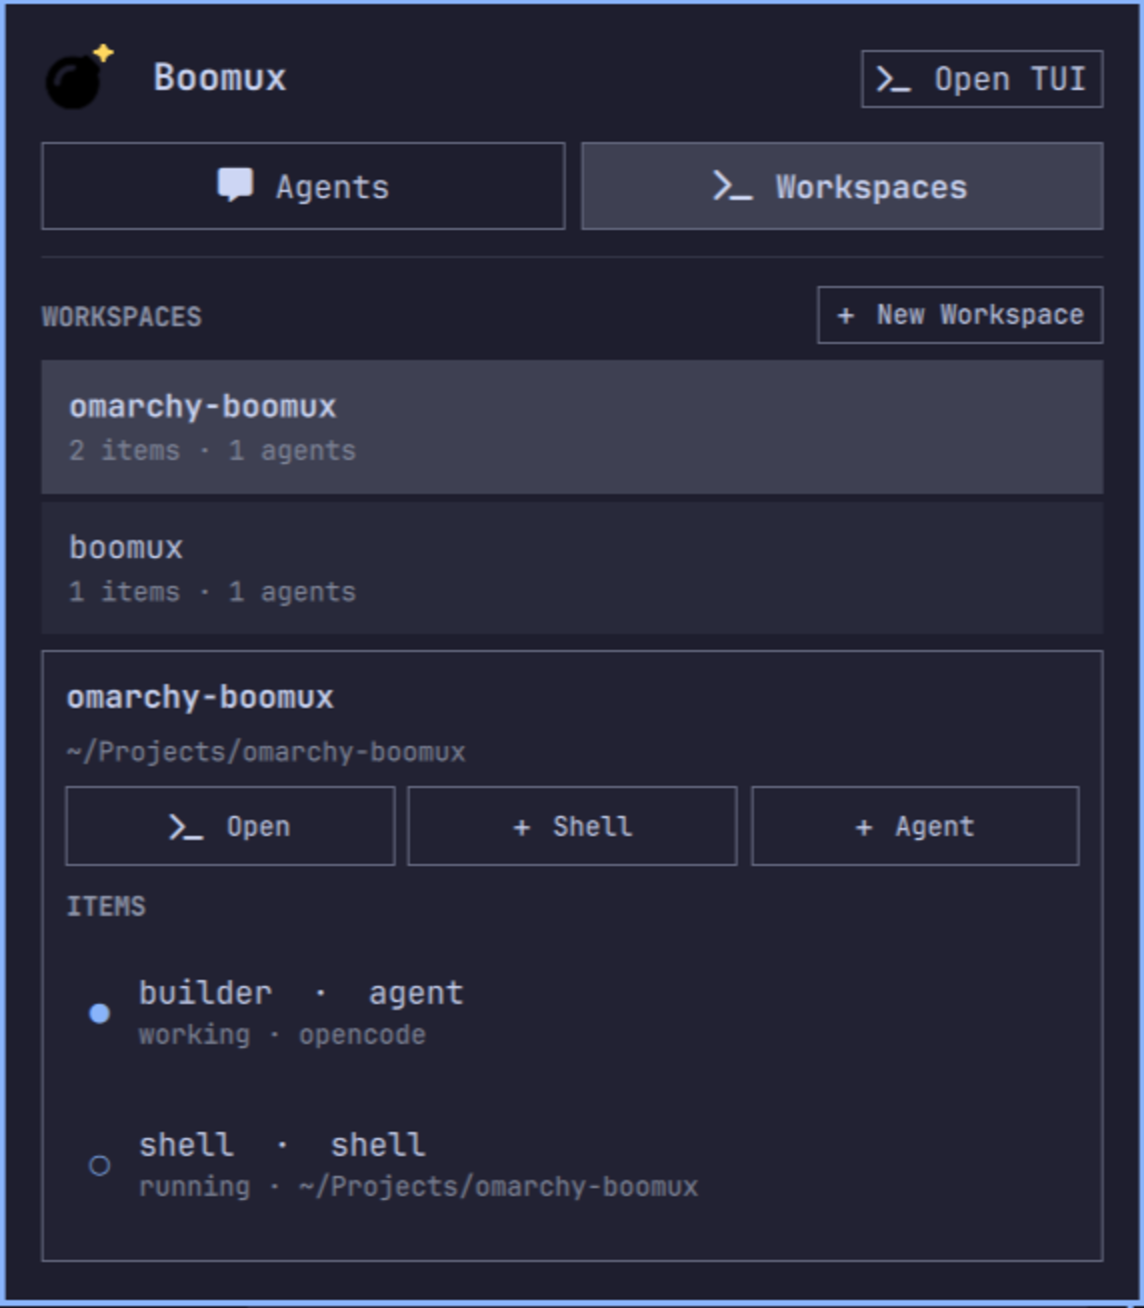
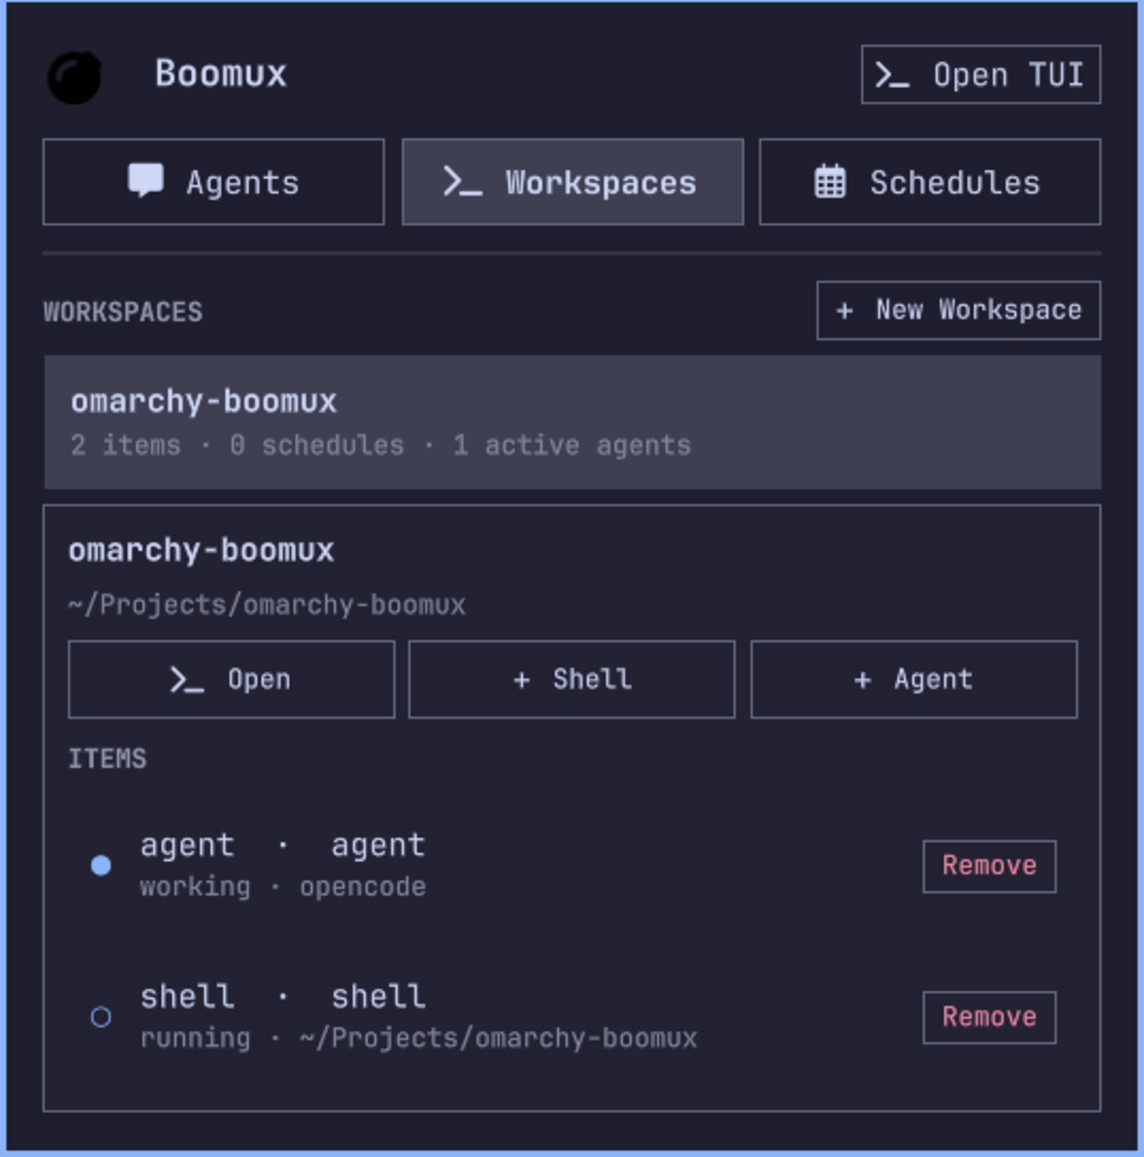
feat: remove workspace items

diff --git a/Panel.qml b/Panel.qml
@@ -44,6 +44,7 @@ Panel {
   property var activeAcknowledgement: null
   property var automaticAttentionRevisions: ({})
   property var pendingOpenAgent: null
+  property var itemToRemove: null
   property string inspectRequestedId: ""
   property string inspectActiveId: ""
   property string error: ""
@@ -134,6 +135,7 @@ Panel {
     workspaceDetail = null
     selectedWorkspaceId = ""
     selectedScheduleId = ""
+    itemToRemove = null
     daemonProtocolVersion = 0
     schedulerState = "offline"
     schedulerActiveExecutions = 0
@@ -543,6 +545,37 @@ Panel {
     openShell(item.shell, item.agent)
   }
 
+  function requestRemoveItem(item) {
+    if (!item || actionProcess.running || openProcess.running || executionOpenProcess.running) return
+    removeItemDialog.selectedIndex = 0
+    itemToRemove = item
+  }
+
+  function cancelRemoveItem() {
+    itemToRemove = null
+  }
+
+  function removeItemMessage(item) {
+    if (!item) return ""
+    if (item.kind === "launcher")
+      return "Remove launcher " + String(item.name)
+        + "? This deletes its workspace definition. Applications it already launched keep running."
+    return "Remove " + String(item.kind) + " " + String(item.name)
+      + "? This terminates it if running and deletes its shell definition and retained terminal state. Durable Agent history may remain."
+  }
+
+  function confirmRemoveItem() {
+    var item = itemToRemove
+    itemToRemove = null
+    if (!item || !workspaceDetail || actionProcess.running) return
+    pendingAction = item.kind === "launcher" ? "remove-launcher" : "remove-shell"
+    actionMessage = "Removing " + String(item.name) + "..."
+    actionProcess.command = item.kind === "launcher"
+      ? ["boomux", "launcher", "remove", String(item.id), "--workspace", String(workspaceDetail.id)]
+      : ["boomux", "shell", "close", String(item.shell.id), "--workspace", String(workspaceDetail.id)]
+    actionProcess.running = true
+  }
+
   function openDashboard() {
     if (!bar) return
     bar.run("omarchy-launch-tui --app-id=org.omarchy.boomux boomux")
@@ -761,6 +794,7 @@ Panel {
     refresh()
     Qt.callLater(function() { keyCatcher.forceActiveFocus() })
   } else {
+    itemToRemove = null
     cancelForm()
   }
 
@@ -893,6 +927,8 @@ Panel {
       else if (action === "create-shell") root.actionMessage = "Shell added"
       else if (action === "create-agent") root.actionMessage = "Starting " + root.agentHost + "..."
       else if (action === "invoke-launcher") root.actionMessage = "Launcher started"
+      else if (action === "remove-launcher") root.actionMessage = "Launcher removed"
+      else if (action === "remove-shell") root.actionMessage = "Workspace item removed"
       else if (action === "run-schedule") root.actionMessage = "Schedule execution started"
       else if (action === "pause-schedule") root.actionMessage = "Schedule paused"
       else if (action === "resume-schedule") root.actionMessage = "Schedule resumed"
@@ -1014,14 +1050,27 @@ Panel {
       anchors.fill: parent
       blocked: root.editing
       onMoveRequested: function(dx, dy) {
-        if (dy !== 0) root.moveSelection(dy)
+        if (root.itemToRemove && (dx !== 0 || dy !== 0))
+          removeItemDialog.selectedIndex = removeItemDialog.selectedIndex === 0 ? 1 : 0
+        else if (dy !== 0) root.moveSelection(dy)
       }
-      onActivateRequested: root.activateSelected()
-      onCloseRequested: root.close()
+      onActivateRequested: {
+        if (root.itemToRemove) {
+          if (removeItemDialog.selectedIndex === 0) root.cancelRemoveItem()
+          else root.confirmRemoveItem()
+        } else root.activateSelected()
+      }
+      onCloseRequested: {
+        if (root.itemToRemove) root.cancelRemoveItem()
+        else root.close()
+      }
       onTabRequested: function(direction) {
-        root.cycleTab(direction)
+        if (root.itemToRemove)
+          removeItemDialog.selectedIndex = removeItemDialog.selectedIndex === 0 ? 1 : 0
+        else root.cycleTab(direction)
       }
       onTextKey: function(text) {
+        if (root.itemToRemove) return
         if (text === "r" || text === "R") root.refresh()
         else if (text === "1") root.selectTab("agents")
         else if (text === "2") root.selectTab("workspaces")
@@ -1468,8 +1517,8 @@ Panel {
                     Column {
                       anchors.left: kindGlyph.right
                       anchors.leftMargin: Style.space(10)
-                      anchors.right: parent.right
-                      anchors.rightMargin: Style.space(9)
+                      anchors.right: removeItemButton.left
+                      anchors.rightMargin: Style.space(8)
                       anchors.verticalCenter: parent.verticalCenter
                       spacing: Style.space(1)
                       Text {
@@ -1496,6 +1545,24 @@ Panel {
                       anchors.fill: parent
                       hoverEnabled: true
                       onClicked: root.openWorkspaceItem(modelData)
+                    }
+                    Button {
+                      id: removeItemButton
+                      z: 1
+                      anchors.right: parent.right
+                      anchors.rightMargin: Style.space(8)
+                      anchors.verticalCenter: parent.verticalCenter
+                      text: "Remove"
+                      tooltipText: modelData.kind === "launcher"
+                        ? "Remove launcher definition"
+                        : "Close and remove backing shell"
+                      bordered: true
+                      enabled: !actionProcess.running && !openProcess.running && !executionOpenProcess.running
+                      foreground: root.urgent
+                      fontSize: Style.font.caption
+                      horizontalPadding: Style.space(6)
+                      verticalPadding: Style.space(2)
+                      onClicked: root.requestRemoveItem(modelData)
                     }
                   }
                 }
@@ -1826,6 +1893,24 @@ Panel {
           horizontalAlignment: Text.AlignHCenter
           wrapMode: Text.Wrap
         }
+      }
+
+      ConfirmDialog {
+        id: removeItemDialog
+        anchors.fill: parent
+        opened: root.itemToRemove !== null
+        z: 10
+        message: root.removeItemMessage(root.itemToRemove)
+        confirmText: "Remove"
+        background: Color.background
+        foreground: root.foreground
+        scrim: Util.alpha(Color.background, 0.72)
+        selectedBackground: Util.alpha(root.foreground, 0.08)
+        selectedText: Color.accent
+        fontFamily: root.fontFamily
+        cornerRadius: Style.cornerRadius
+        onCanceled: root.cancelRemoveItem()
+        onConfirmed: root.confirmRemoveItem()
       }
     }
   }

diff --git a/README.md b/README.md
@@ -14,6 +14,7 @@ operate recurring Agent Schedules without leaving the Omarchy bar.
 - Keeps finished markers visible until you open the corresponding Agent
 - Lists workspaces and their Agent, shell, command, and launcher items
 - Opens complete workspaces or individual managed items
+- Removes individual workspace items after confirming their specific impact
 - Creates workspaces and pending login shells
 - Starts new OpenCode or Pi command shells and lets their lifecycle integration
   register the Agent
@@ -90,6 +91,13 @@ clicking a launcher invokes that detached command. Opening a managed terminal
 takes over its writable controller so the new window receives the authoritative
 terminal size and input stream.
 
+Each workspace item has a **Remove** button. Removing a shell, command, or Agent
+item closes its exact backing shell, terminates it if running, and deletes its
+shell definition and retained terminal state. Durable Agent history may remain
+available for acknowledgement. Removing a launcher deletes only that launcher
+definition; applications it already launched keep running. Both operations ask
+for confirmation before changing the workspace.
+
 Opening a complete workspace starts immediately. Boomux invokes its launchers,
 takes over active terminal controllers, and restarts exited shells. Workspace
 restore is non-transactional, so some items can open even if another item fails.
@@ -154,10 +162,12 @@ and data.
   for an Agent whose shell was removed can also be dismissed directly from its
   row.
 - Opening the dashboard or a managed shell launches a native terminal process.
-- Workspace actions can create or open workspaces, create shells, and invoke
-  existing launchers. Workspace restore can run commands, open native
-  terminals, disconnect existing writable terminal controllers, and restart
-  exited shells.
+- Workspace actions can create or open workspaces, create or remove shells, and
+  invoke or remove existing launchers. Shell removal can terminate a running
+  process and deletes retained terminal state. Launcher removal does not stop
+  applications already launched. Workspace restore can run commands, open
+  native terminals, disconnect existing writable terminal controllers, and
+  restart exited shells.
 - Schedule actions can start Agent processes and pause or resume future timed
   dispatch. Opening the latest run can attach its exact active run or launch its
   harness to resume the exact linked session. Schedule actions do not edit
